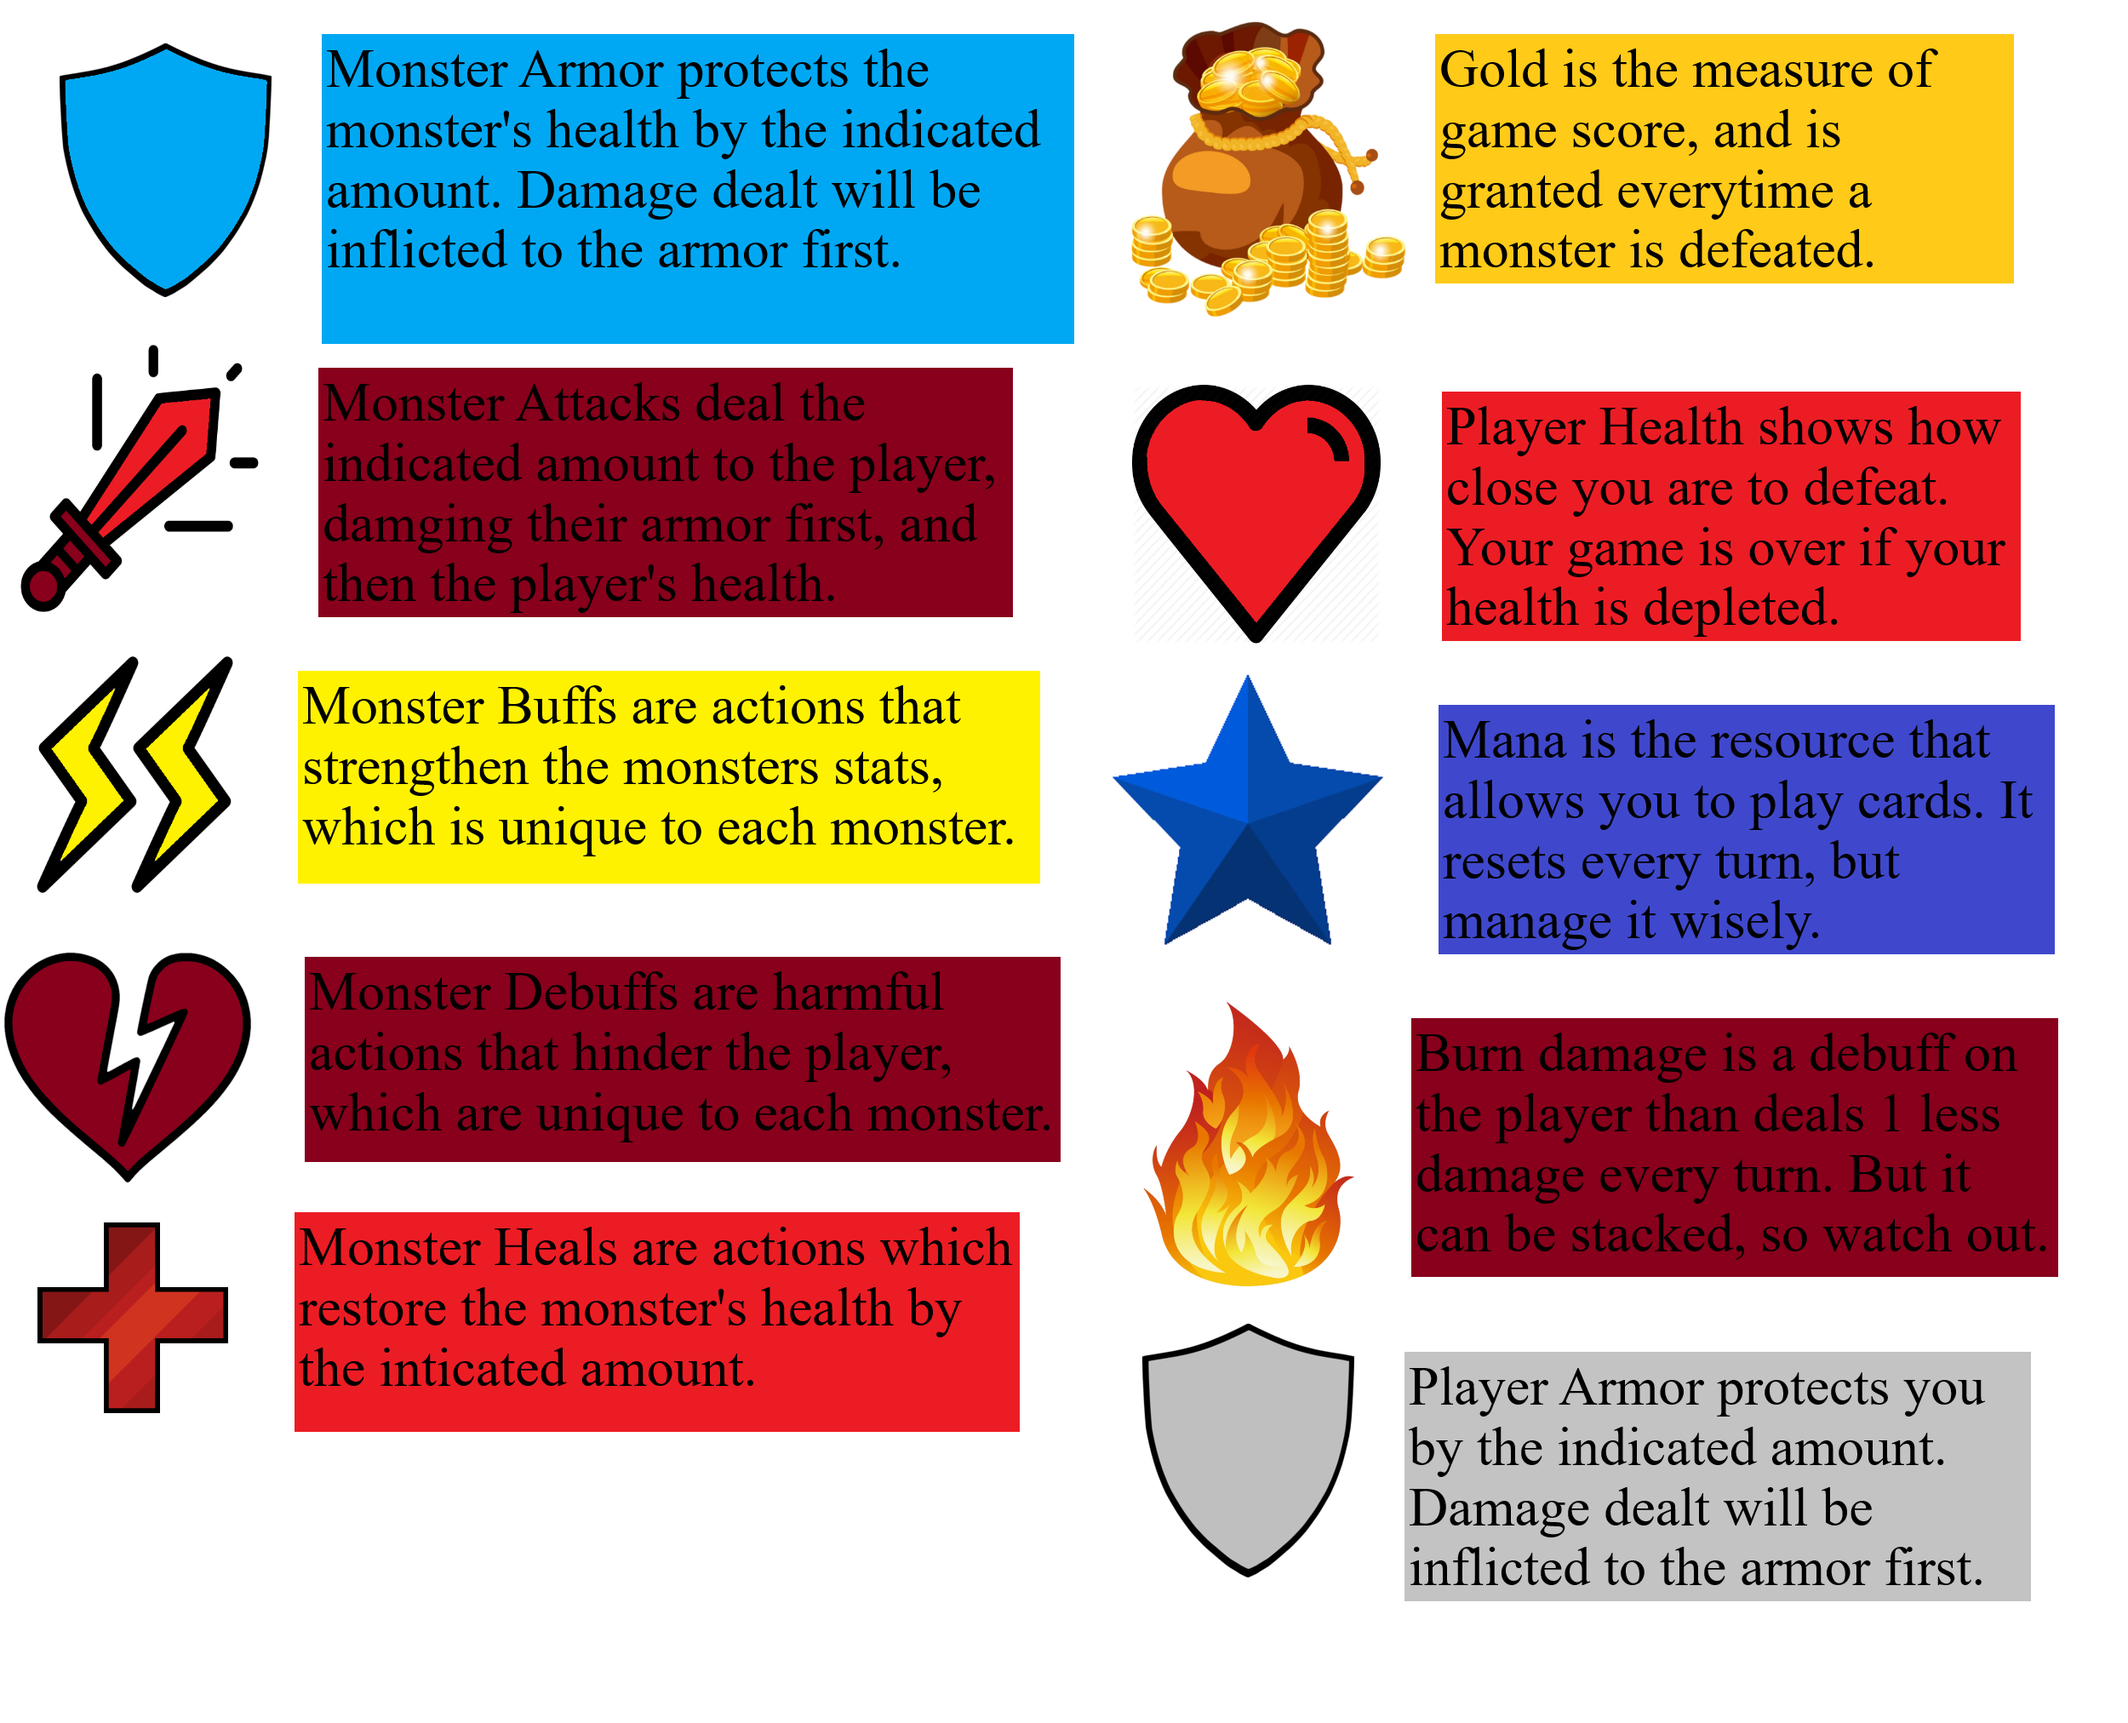
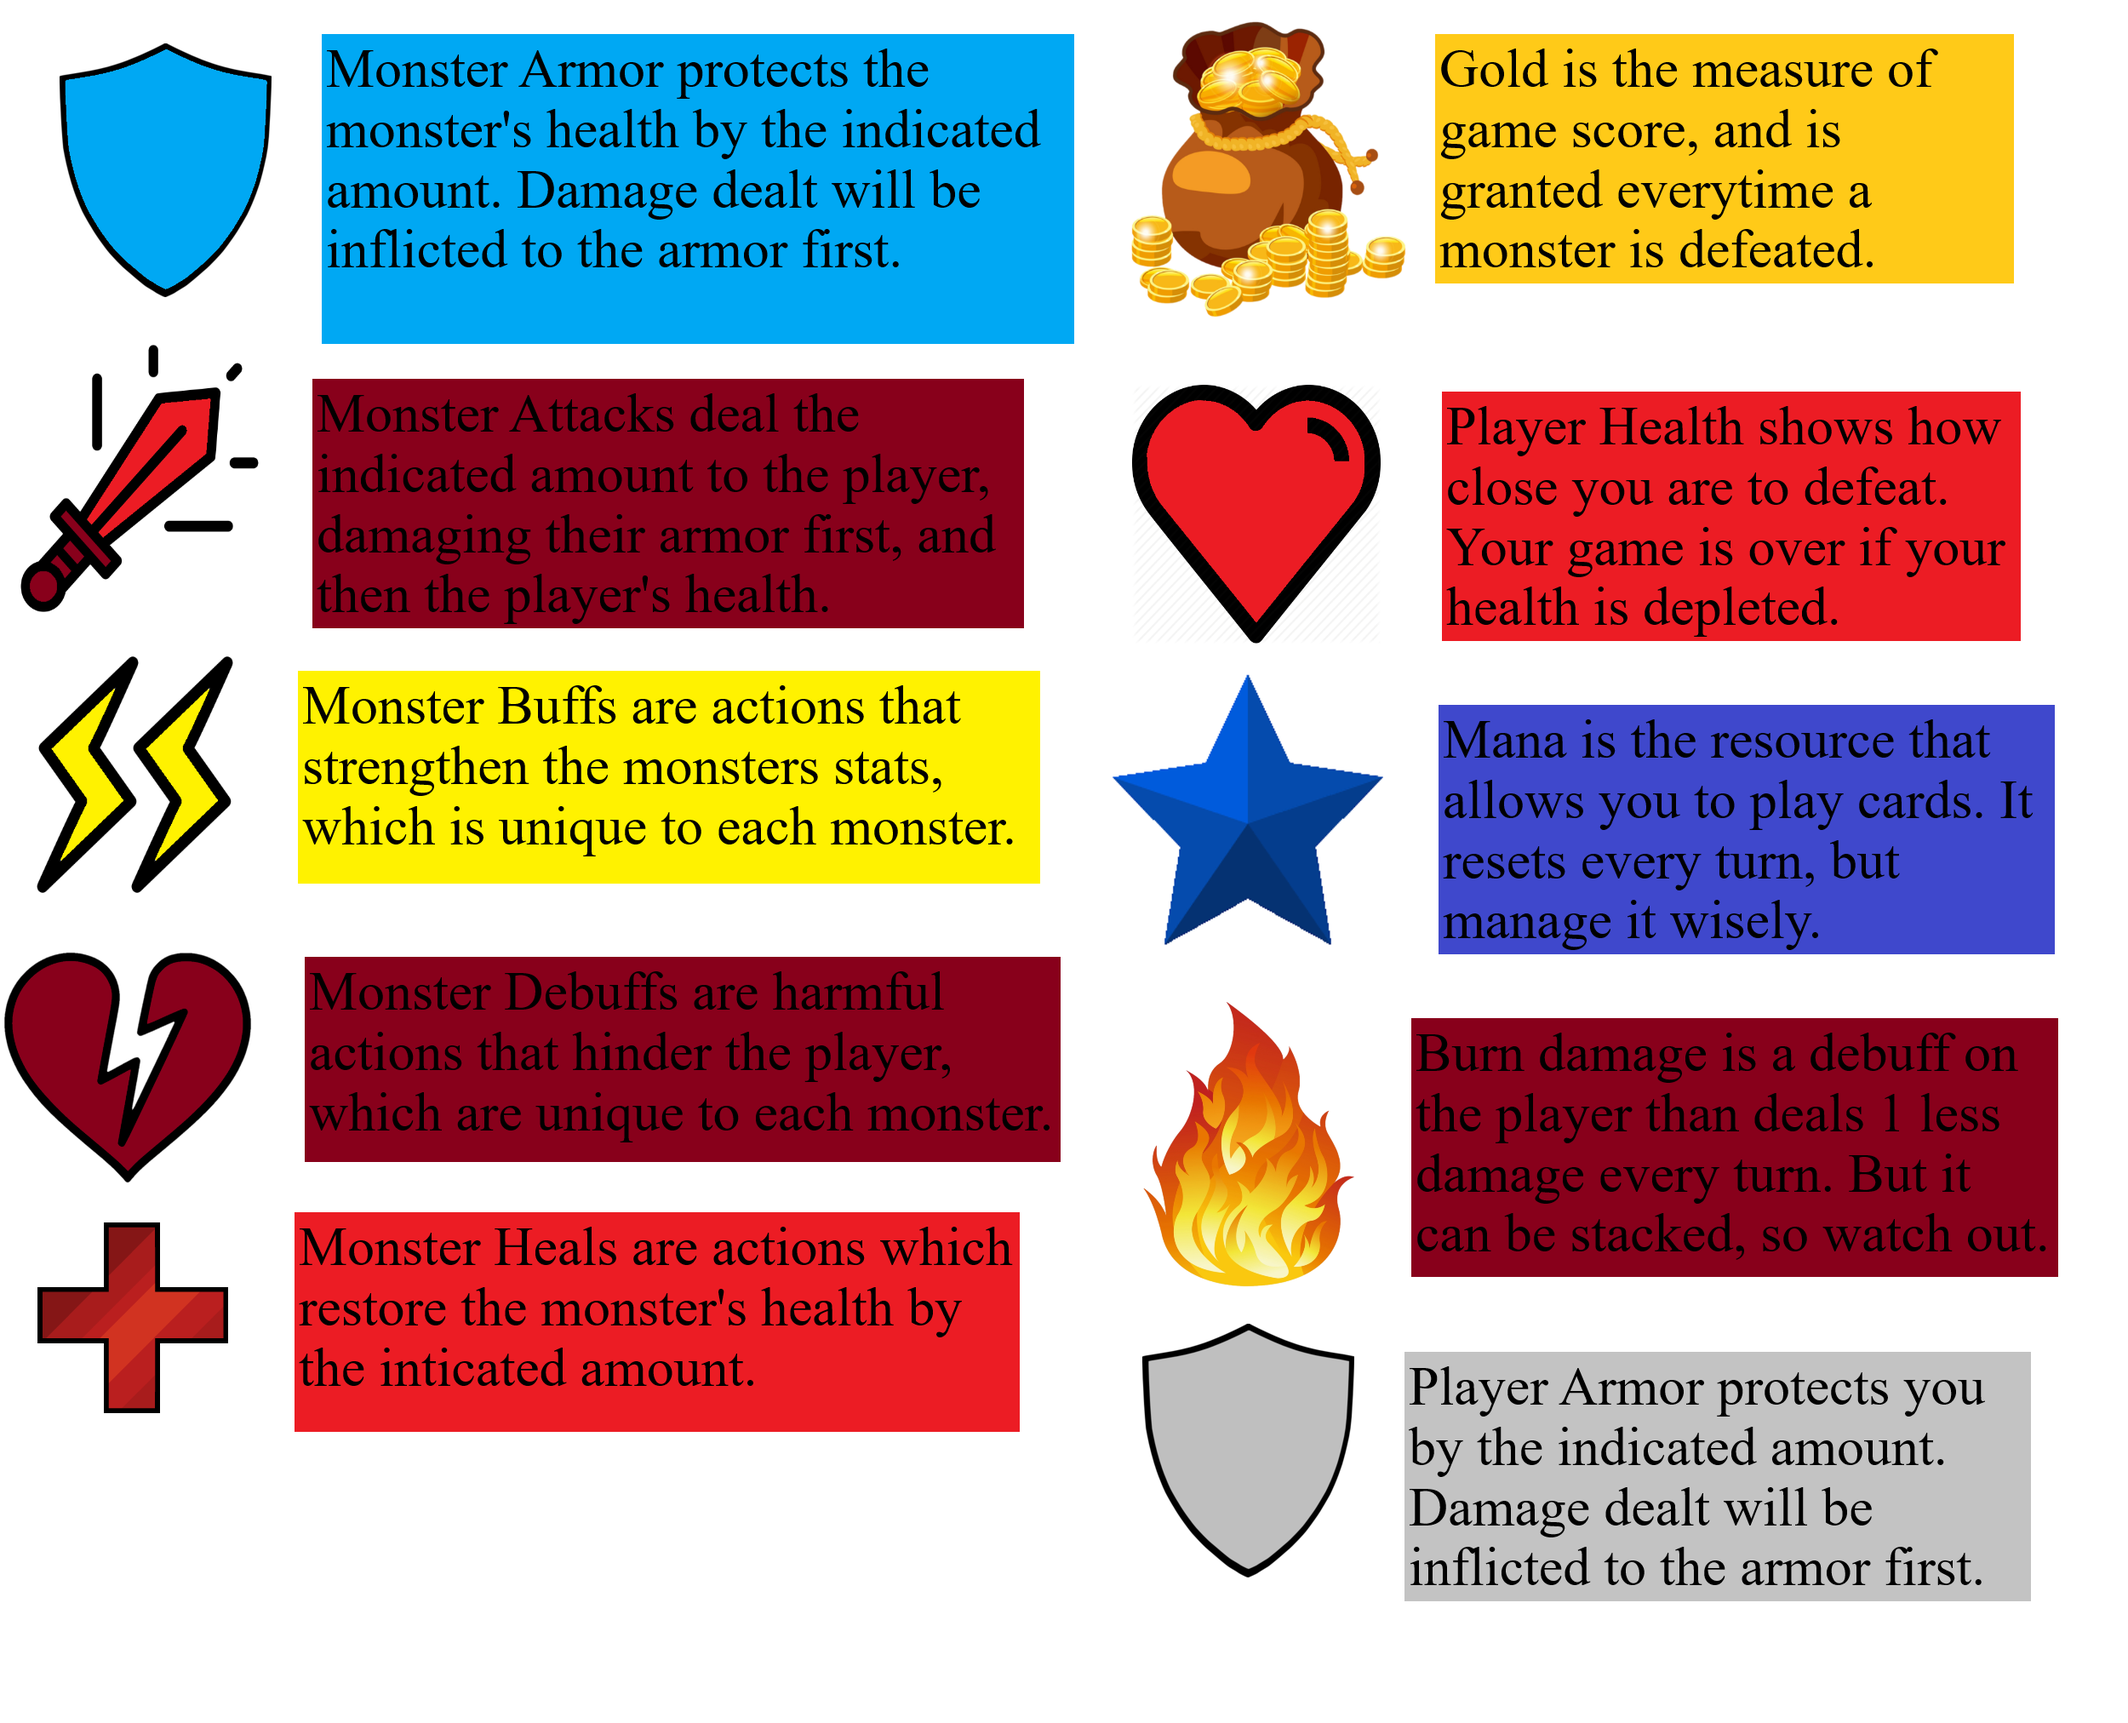
bug fixes and quality of life

Changed region(s): [[0.1248, 0.1868, 0.4992, 0.3735]]

diff --git a/sketch.js b/sketch.js
@@ -264,6 +264,10 @@ function displayInstructions() {
     textAlign(LEFT);
     image(optionsBackground, width/2, height/2, width, height);
     backPlayButton.show();
+    // set colour transparent gray
+    fill(128,128,128,120);
+    // make rectangle at 100,300 of size 100,100
+    rect(100, 300, 100, 100);
     fill("turquoise");
     text(instructionsText[0], width/2, height/2 - 200, width - 100, 200);
     text(instructionsText[1], width/2, height/2 - 100, width - 100, 200);
